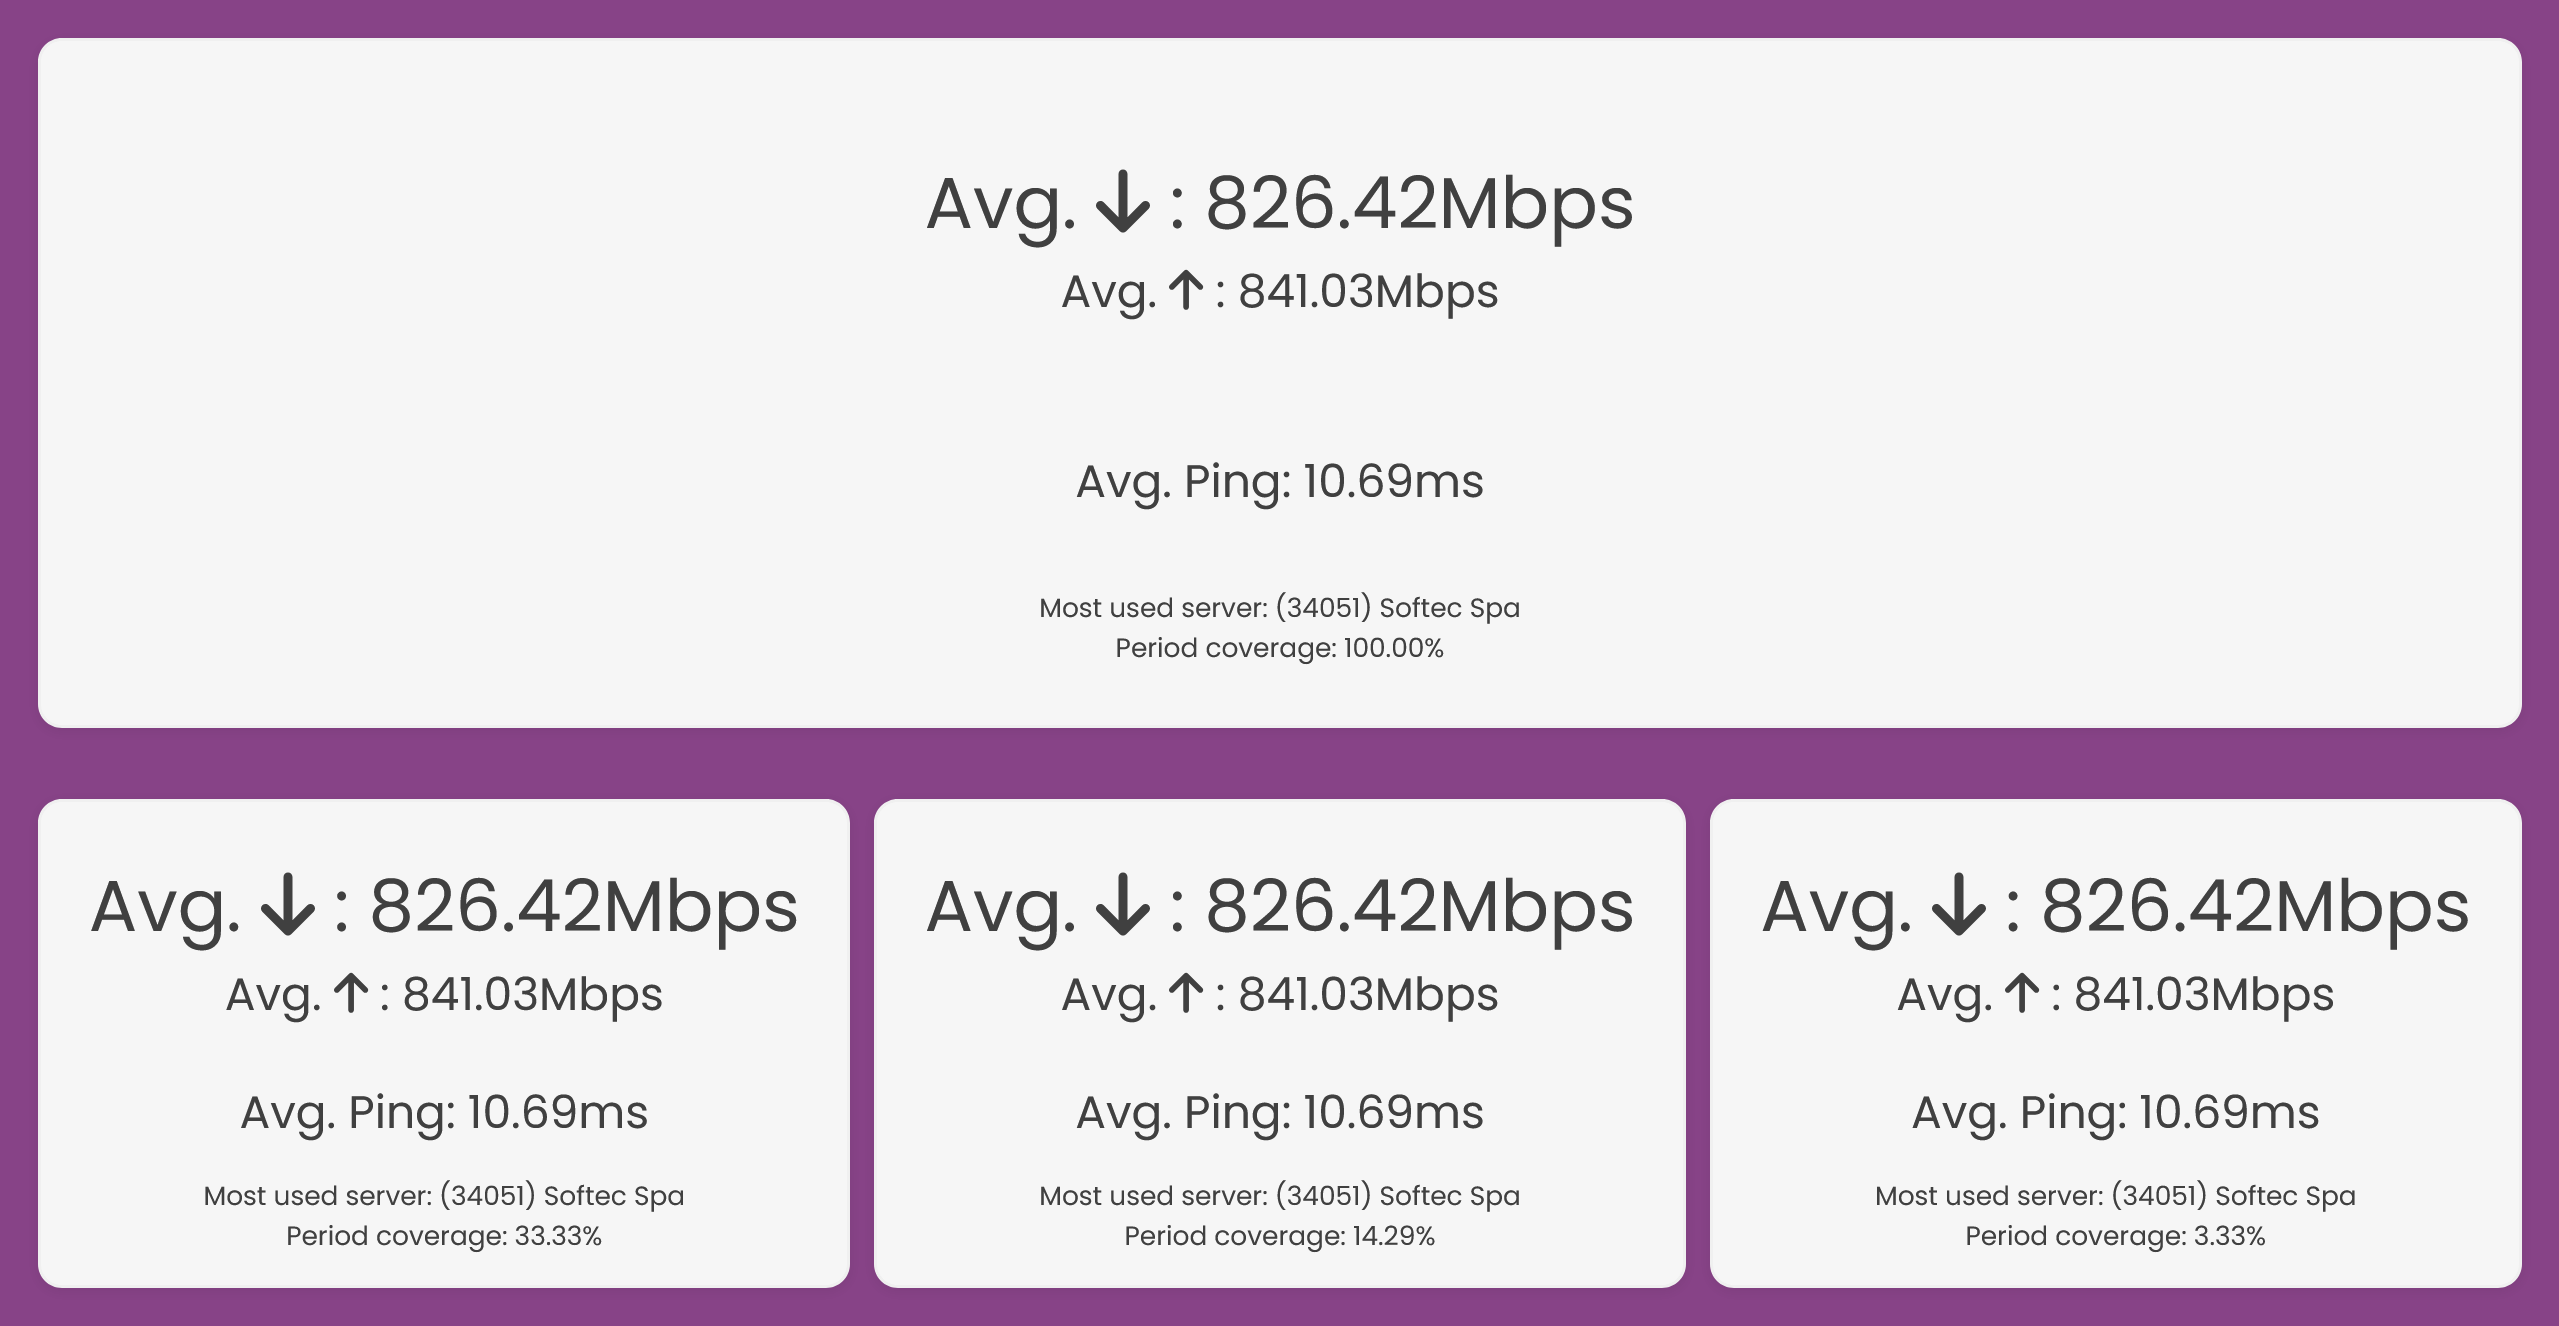
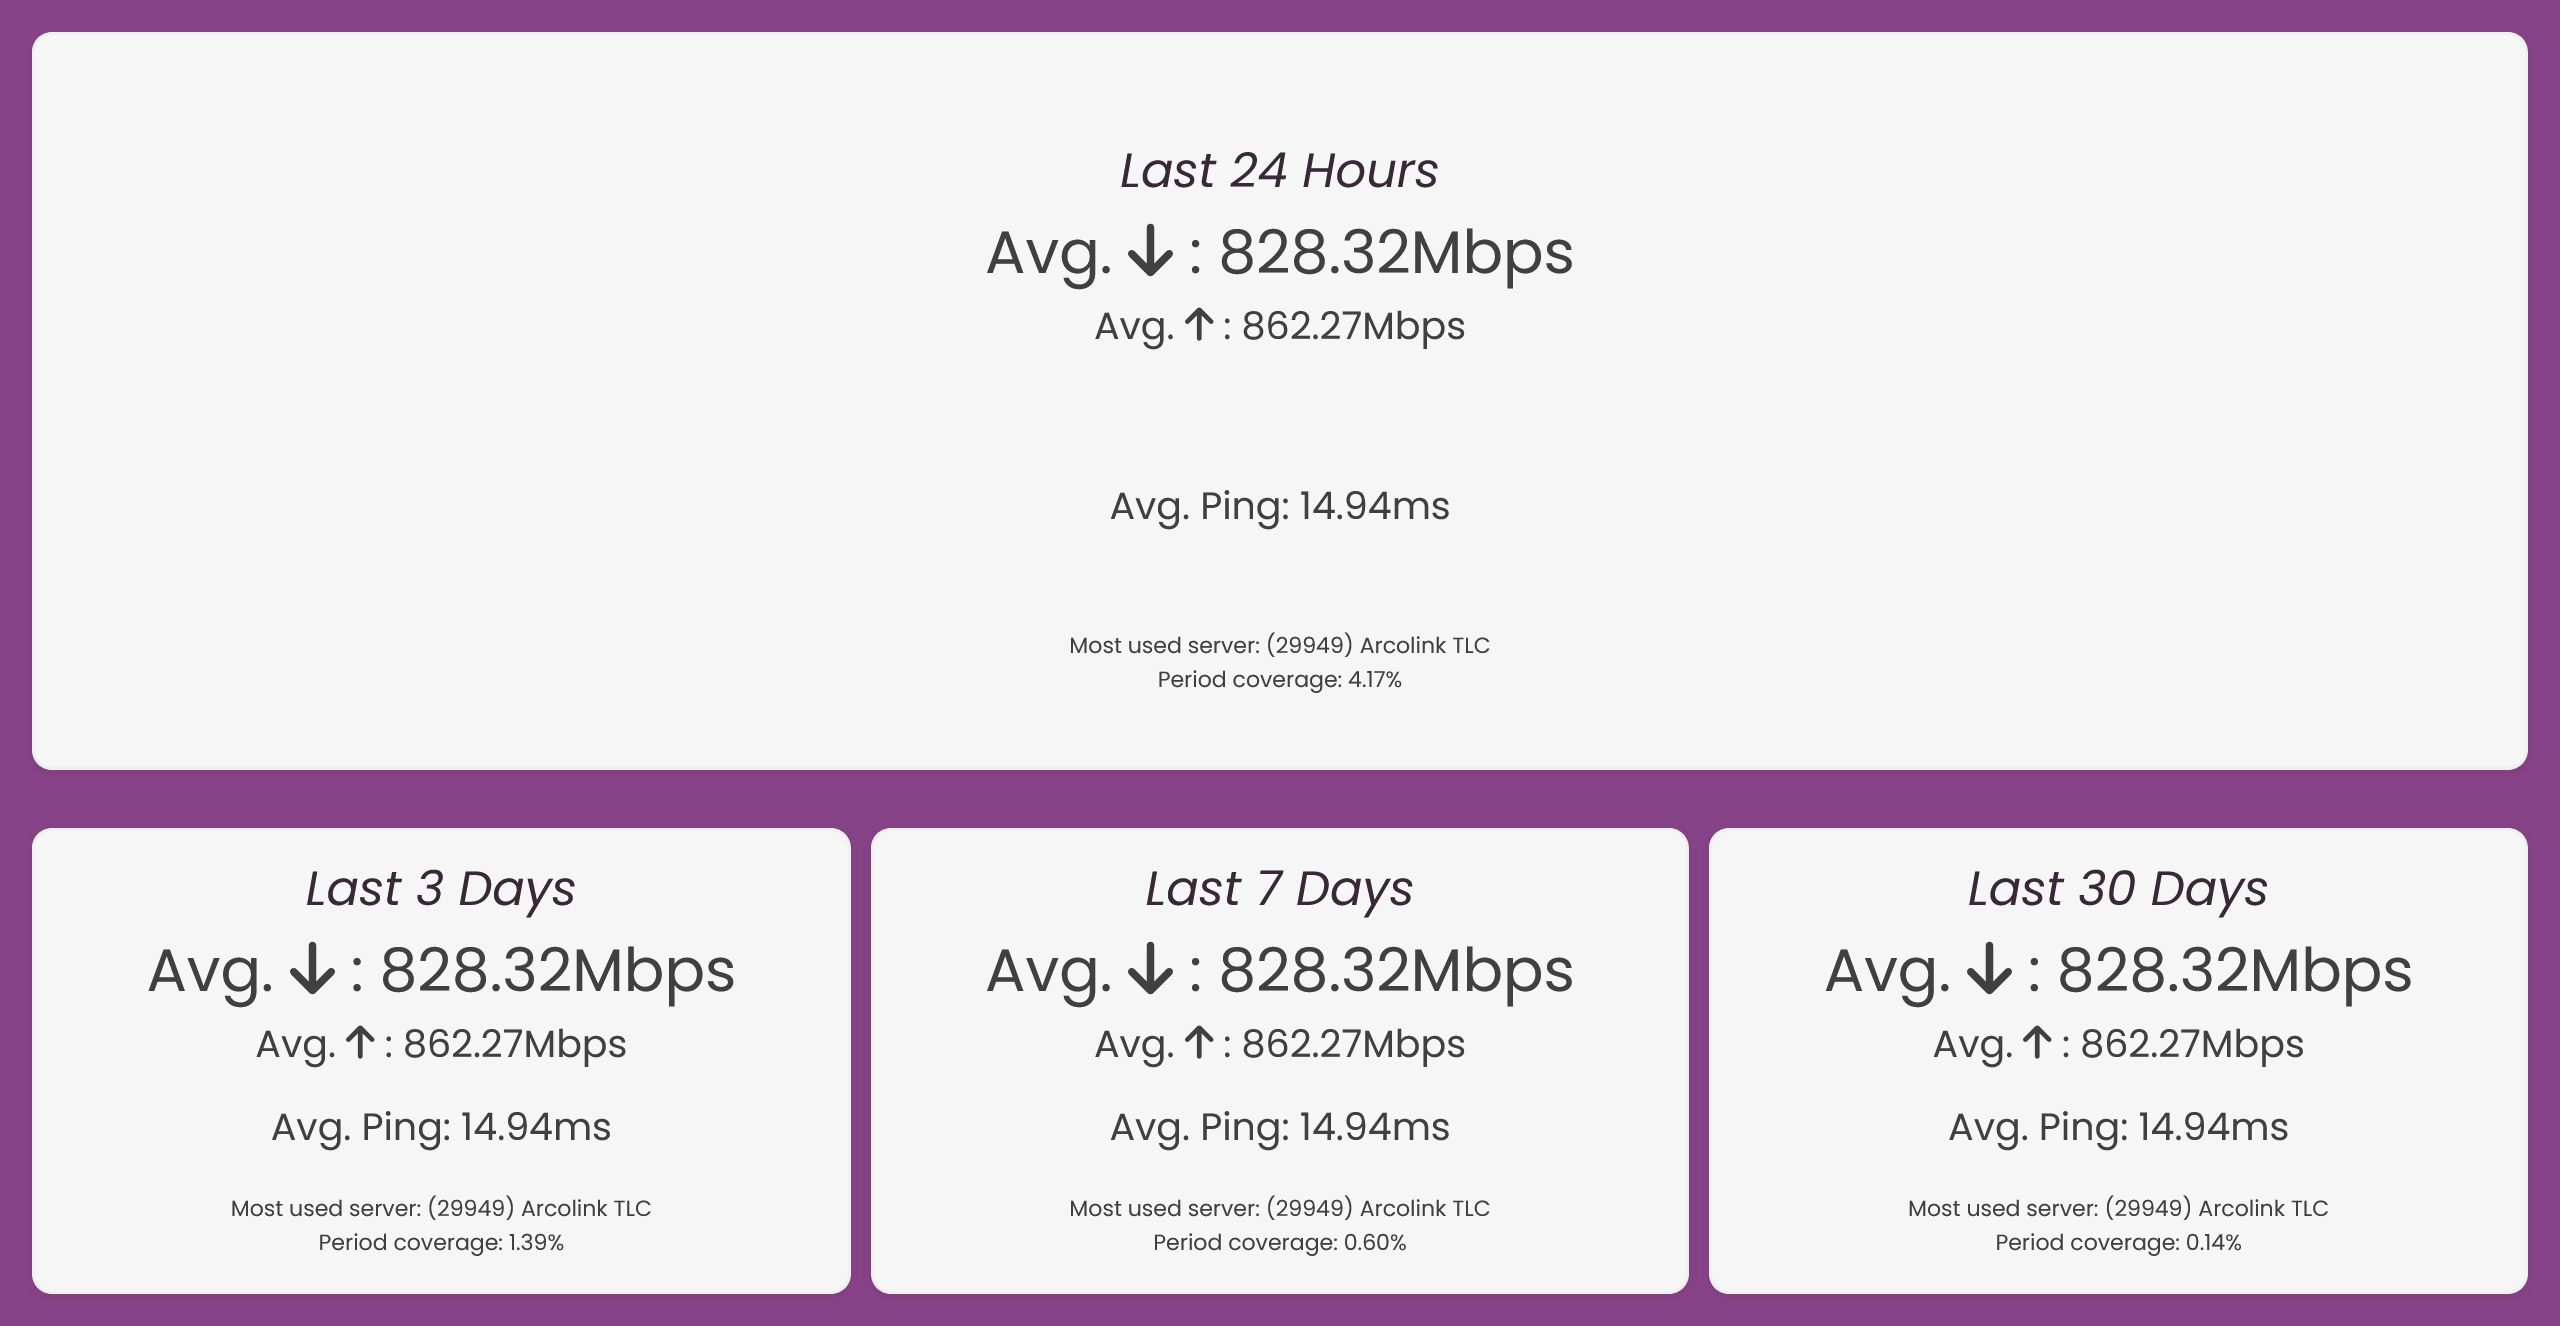
Updated README, added labels for timings

diff --git a/tester/templates/index.html b/tester/templates/index.html
@@ -37,6 +37,12 @@
                 font-size: 22px;
             }
 
+            .title {
+                font-size: 48px;
+                font-style: italic;
+                color: rgb(57, 40, 56);
+            }
+
             .card {
                 display: grid;
                 grid-template-rows: 4fr 1fr 2fr;
@@ -79,6 +85,7 @@
             <div class="row-top">
                 <div class="card">
                     <div class="card-top">
+                        <div class="title">Last 24 Hours</div>
                         <div class="big">Avg. <i class="fas fa-arrow-down"></i> : {{ stats[1]['avg_download'] }}Mbps</div>
                         <div class="medium">Avg. <i class="fas fa-arrow-up"></i> : {{ stats[1]['avg_upload'] }}Mbps</div>
                     </div>
@@ -94,6 +101,7 @@
             <div class="row-bottom">
                 <div class="card">
                     <div class="card-top">
+                        <div class="title">Last 3 Days</div>
                         <div class="big">Avg. <i class="fas fa-arrow-down"></i> : {{ stats[3]['avg_download'] }}Mbps</div>
                         <div class="medium">Avg. <i class="fas fa-arrow-up"></i> : {{ stats[3]['avg_upload'] }}Mbps</div>
                     </div>
@@ -107,6 +115,7 @@
                 </div>
                 <div class="card">
                     <div class="card-top">
+                        <div class="title">Last 7 Days</div>
                         <div class="big">Avg. <i class="fas fa-arrow-down"></i> : {{ stats[7]['avg_download'] }}Mbps</div>
                         <div class="medium">Avg. <i class="fas fa-arrow-up"></i> : {{ stats[7]['avg_upload'] }}Mbps</div>
                     </div>
@@ -120,6 +129,7 @@
                 </div>
                 <div class="card">
                     <div class="card-top">
+                        <div class="title">Last 30 Days</div>
                         <div class="big">Avg. <i class="fas fa-arrow-down"></i> : {{ stats[30]['avg_download'] }}Mbps</div>
                         <div class="medium">Avg. <i class="fas fa-arrow-up"></i> : {{ stats[30]['avg_upload'] }}Mbps</div>
                     </div>
